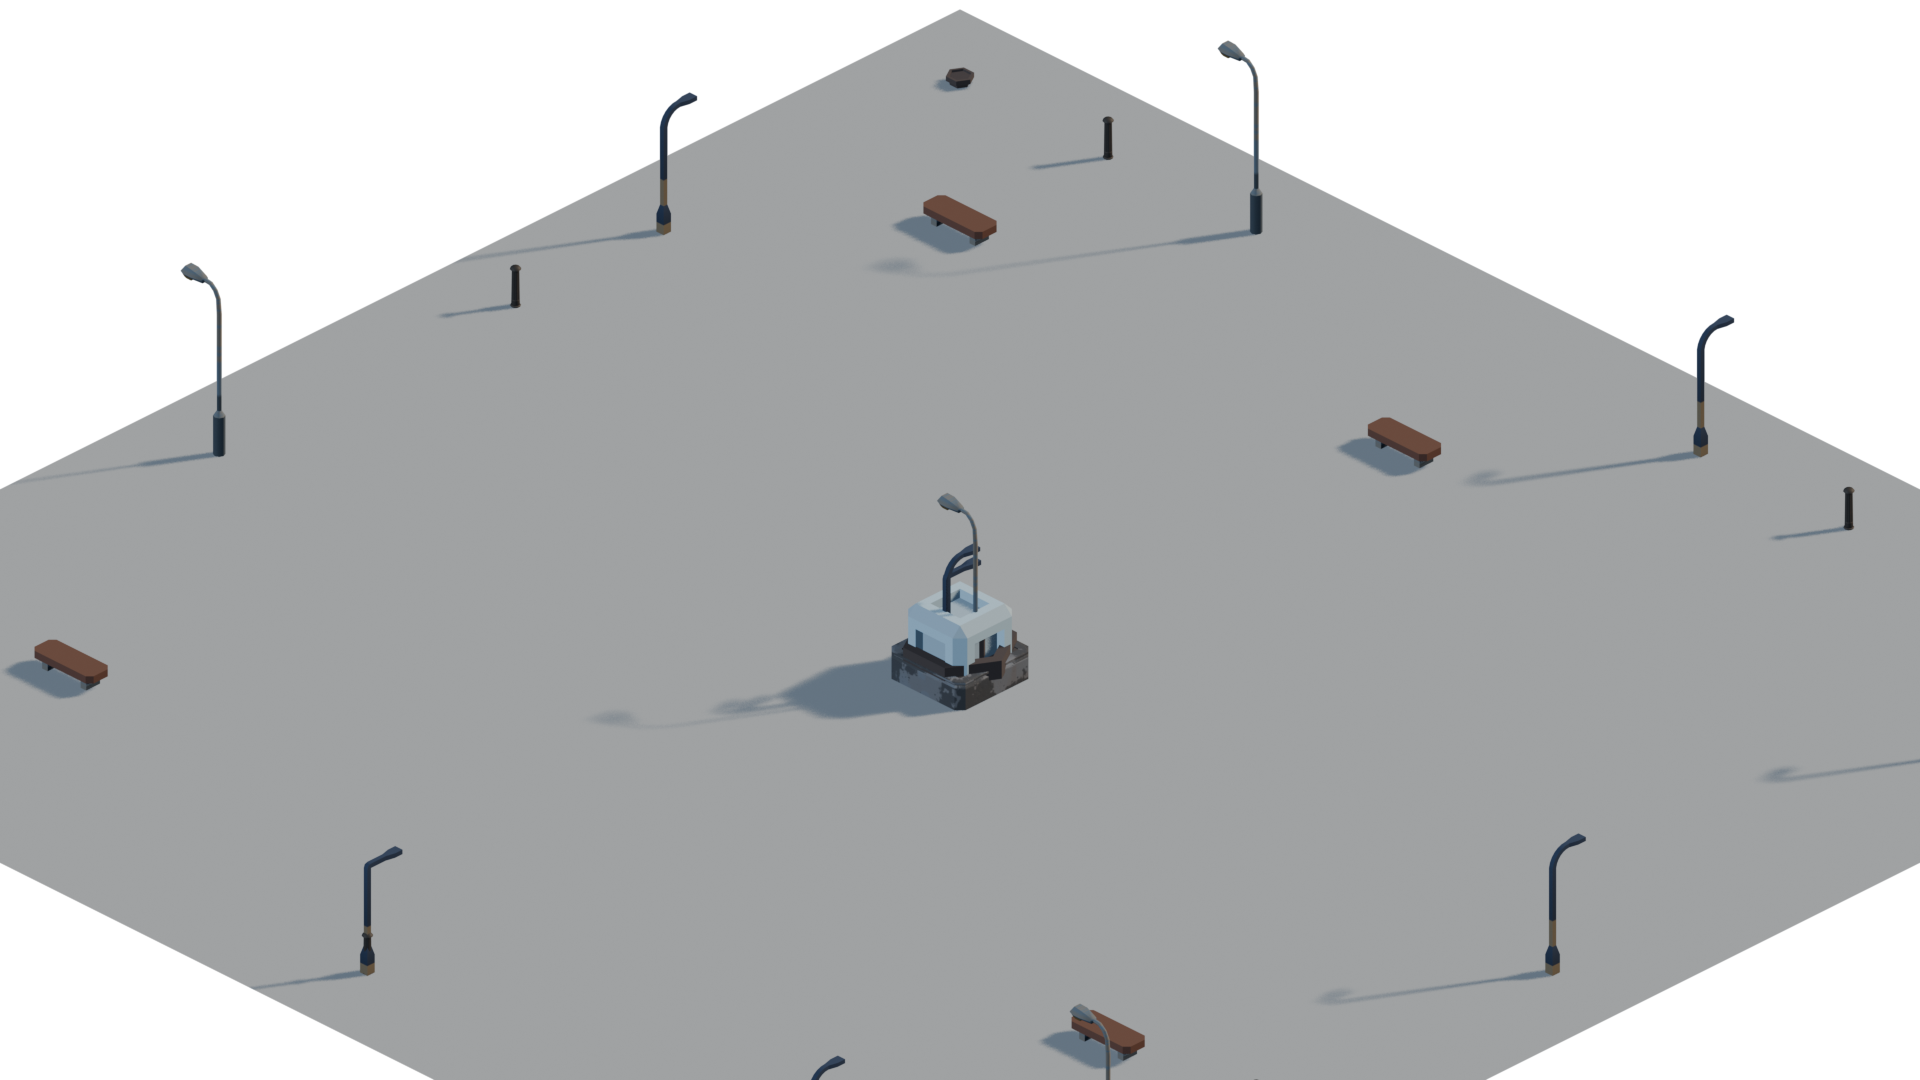
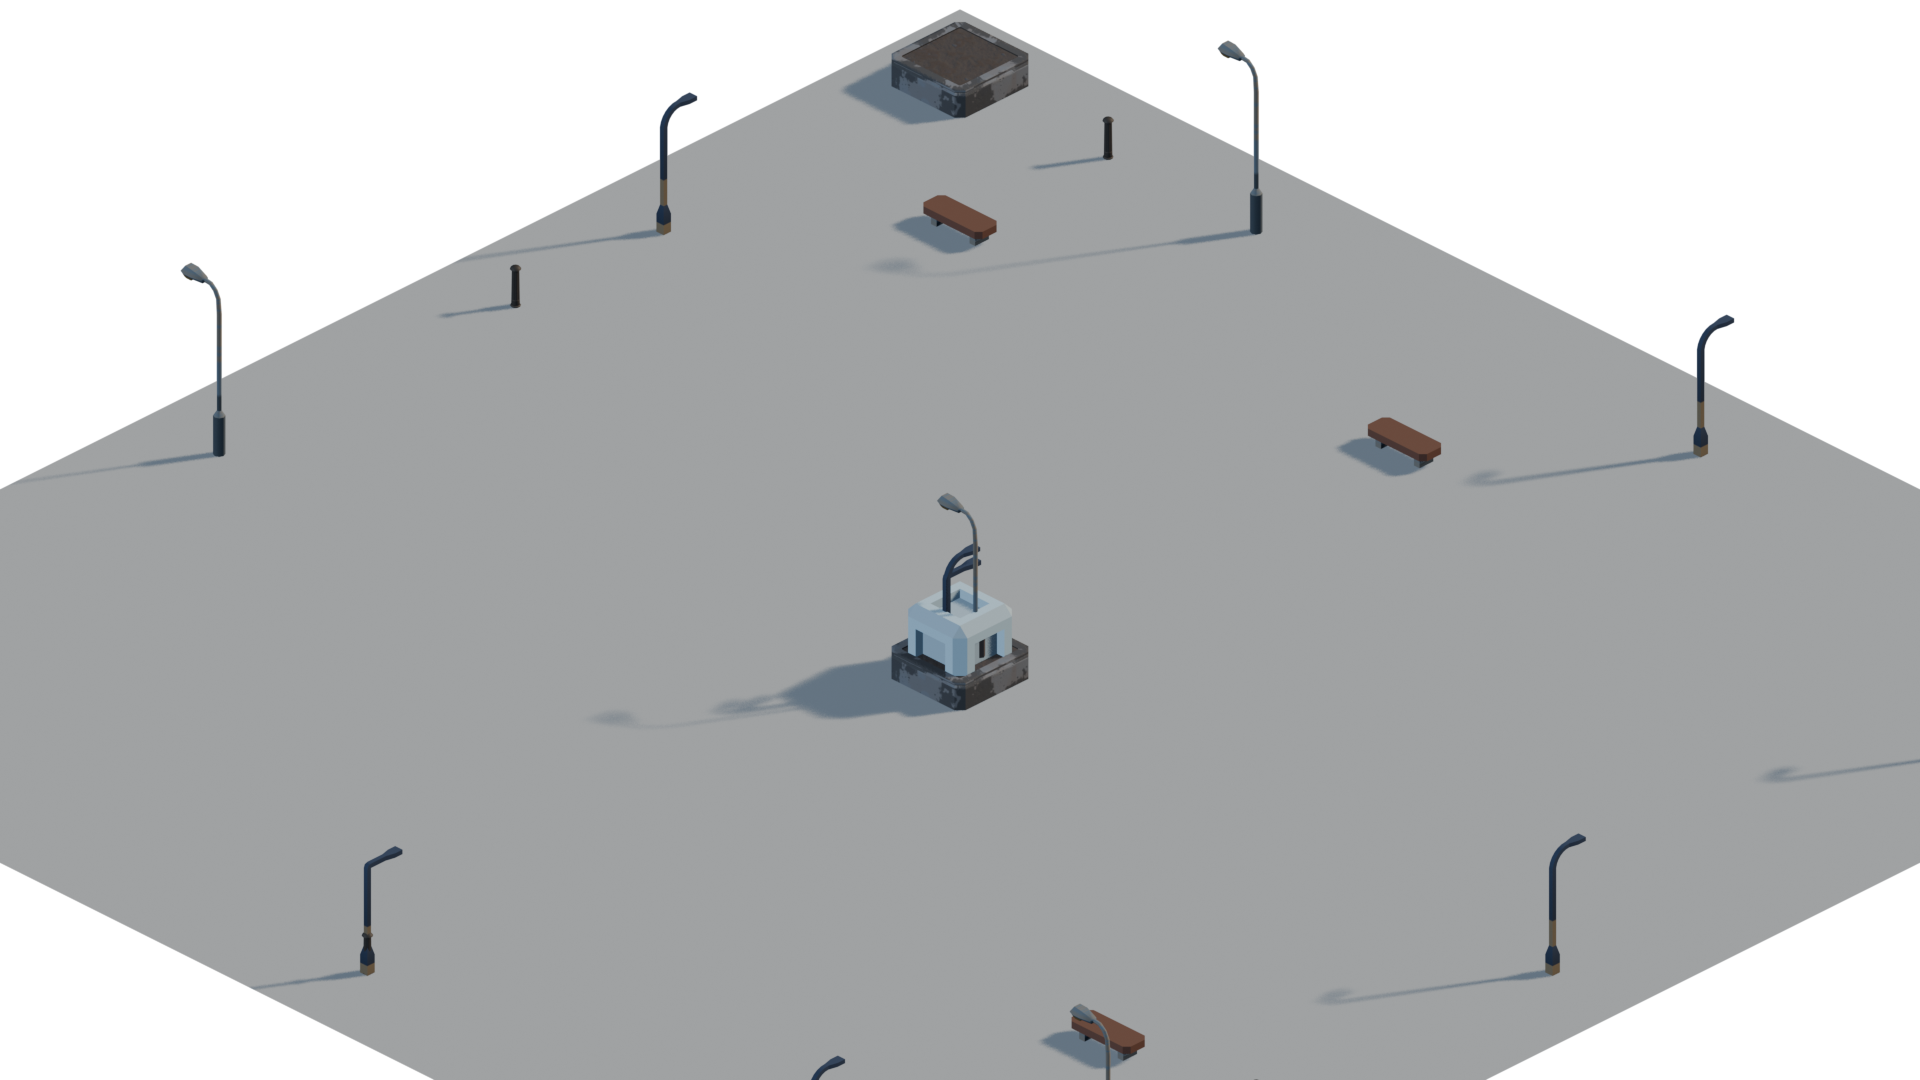
V.g civic-core P6: orientación cívica del dressing (eje plaza↔town_hall)
- civic_axis(): eje town_hall→plaza; monumento sobre el eje sesgado al edificio
- corredor peatonal (dist perpendicular ≤1.5) libre de bancos/jardineras/bolardos
- bancos orientados al monumento cuando hay eje cívico
- dress_all pasa townHallFootprintCells sólo a la plaza enlazada (townHallPlazaId)
- parks sin eje cívico: comportamiento idéntico
- determinismo OK, validator PASS

diff --git a/tools/art-pipeline/blender/public_space_dresser.py b/tools/art-pipeline/blender/public_space_dresser.py
@@ -135,8 +135,49 @@ def _rotation_for_slot(slot, cell, centroid):
     return 0
 
 
-def dress_space(space, kind, manifest, catalog, seed):
-    """Coloca el mobiliario de un espacio público. Devuelve placements en metros (origen = esquina min)."""
+def _centroid(cells):
+    return (sum(c[0] for c in cells) / len(cells), sum(c[1] for c in cells) / len(cells))
+
+
+def civic_axis(cellset, townhall_cells):
+    """Eje cívico de una plaza enlazada a un ayuntamiento.
+
+    El eje va de la huella del town_hall al centroide de la plaza. El monumento se coloca SOBRE ese
+    eje, sesgado hacia el edificio (es lo primero que ve quien sale por la puerta). El corredor son
+    las celdas de la plaza a distancia perpendicular ≤ 1.5 del eje: se mantienen libres de mobiliario
+    para que la travesía peatonal entrada↔monumento no se bloquee. No simula peatones: es geometría.
+    """
+    tx, ty = _centroid(townhall_cells)
+    px, py = _centroid(cellset)
+    axis = (px - tx, py - ty)
+    length = math.hypot(*axis) or 1.0
+    ux, uy = axis[0] / length, axis[1] / length
+    # Perpendicular al eje para medir la distancia lateral de cada celda.
+    def perpendicular_distance(cell):
+        vx, vy = cell[0] - px, cell[1] - py
+        cross = abs(vx * uy - vy * ux)
+        return cross
+
+    def along_distance(cell):
+        vx, vy = cell[0] - px, cell[1] - py
+        return vx * ux + vy * uy
+
+    corridor = {cell for cell in cellset if perpendicular_distance(cell) <= 1.5}
+    # Monumento: celda del corredor más cercana al town_hall (menor distancia a lo largo del eje,
+    # hacia el edificio), desempate por distancia euclídea al edificio.
+    monument = min(
+        corridor or cellset,
+        key=lambda c: (along_distance(c), (c[0] - tx) ** 2 + (c[1] - ty) ** 2, c),
+    )
+    return monument, corridor
+
+
+def dress_space(space, kind, manifest, catalog, seed, townhall_cells=None):
+    """Coloca el mobiliario de un espacio público. Devuelve placements en metros (origen = esquina min).
+
+    Si `townhall_cells` se pasa (plaza enlazada a un ayuntamiento), la plaza se orienta al eje cívico:
+    monumento sobre el eje, corredor peatonal libre de mobiliario y bancos mirando al monumento.
+    """
     profile = manifest["kinds"].get(kind)
     if profile is None:
         return []
@@ -152,12 +193,17 @@ def dress_space(space, kind, manifest, catalog, seed):
     interior = sorted(interior_cells(cellset))
     centroid = centroid_cell(sorted(cellset))
 
+    monument_cell = centroid
+    corridor = set()
+    if townhall_cells:
+        monument_cell, corridor = civic_axis(cellset, townhall_cells)
+
     placements = []
     for slot in profile["slots"]:
         strategy = slot["strategy"]
         params = slot.get("params", {})
         if strategy == "center":
-            targets = [centroid]
+            targets = [monument_cell]
         elif strategy == "perimeter":
             targets = stride_cells(perim, params.get("everyCells", 3))
         elif strategy == "corners":
@@ -171,10 +217,16 @@ def dress_space(space, kind, manifest, catalog, seed):
         else:
             raise GrammarError(f"dressing {kind}/{slot['id']}: estrategia desconocida {strategy}")
 
+        # El corredor peatonal queda libre salvo para el propio monumento (center) y las farolas,
+        # que jalonan el eje sin cortarlo.
+        if strategy != "center" and slot["role"] not in ("street_lamp",):
+            targets = [cell for cell in targets if cell not in corridor]
+
         for cell in targets:
             module_id = rng.choice(slot["pool"])
             module = catalog.get(module_id)
-            rotation = _rotation_for_slot(slot, cell, centroid)
+            aim = monument_cell if townhall_cells else centroid
+            rotation = _rotation_for_slot(slot, cell, aim)
             width, depth, height = module.size(rotation)
             position = ((cell[0] - min_x + 0.5) * cell_meters, (cell[1] - min_y + 0.5) * cell_meters, 0.0)
             placements.append(
@@ -205,14 +257,21 @@ def dress_all(manifest=None, fixture=None, catalog=None):
 
     results = []
     for district in fixture["districts"]:
+        townhall_cells = [
+            (c["x"], c["y"]) for c in district.get("townHallFootprintCells", [])
+        ]
+        civic_plaza_id = district.get("townHallPlazaId")
         for space in district["publicSpaces"]:
-            placements = dress_space(space, space["kind"], manifest, catalog, seed)
+            # Sólo la plaza enlazada al ayuntamiento recibe el eje cívico; el resto se viste igual.
+            space_townhall = townhall_cells if space["id"] == civic_plaza_id else None
+            placements = dress_space(space, space["kind"], manifest, catalog, seed, space_townhall)
             results.append(
                 {
                     "publicSpaceId": space["id"],
                     "kind": space["kind"],
                     "profileId": district["profileId"],
                     "districtRole": district.get("role", ""),
+                    "civic": bool(space_townhall),
                     "cellMeters": cell_meters,
                     "boundsCells": list(cellset_to_bounds(space["cells"])),
                     "cellCount": len(space["cells"]),
